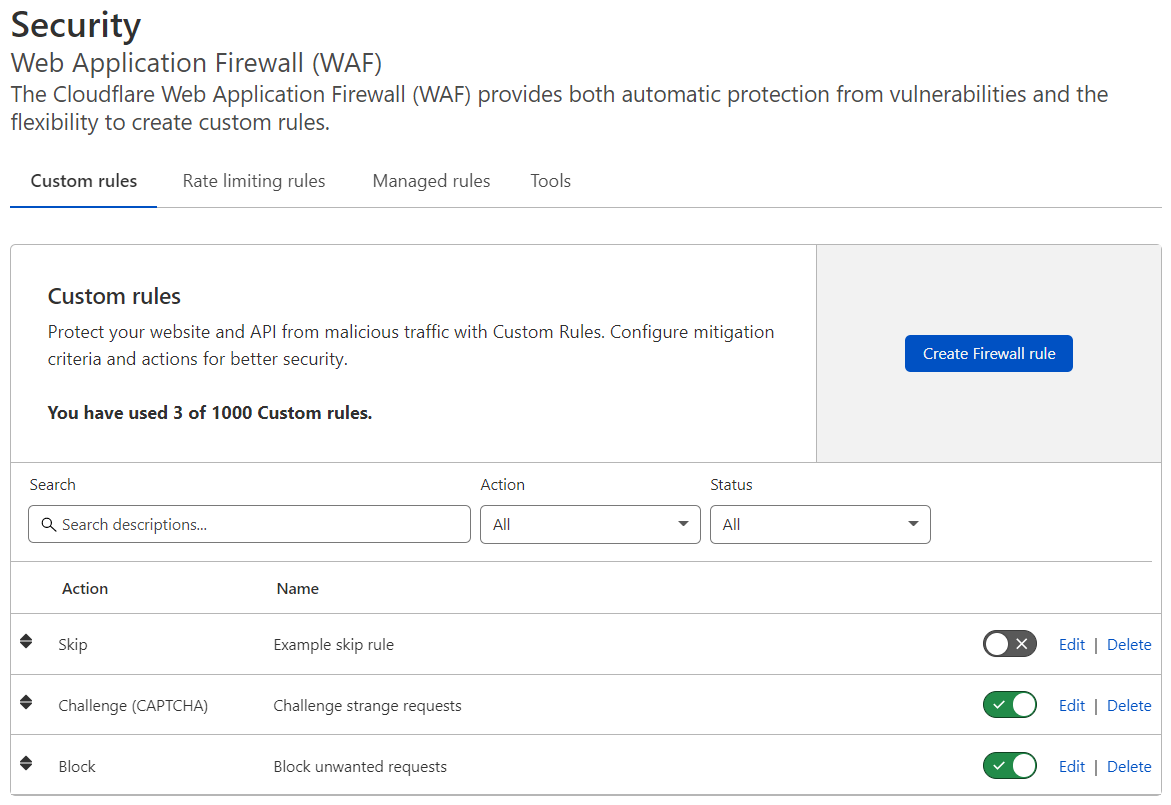
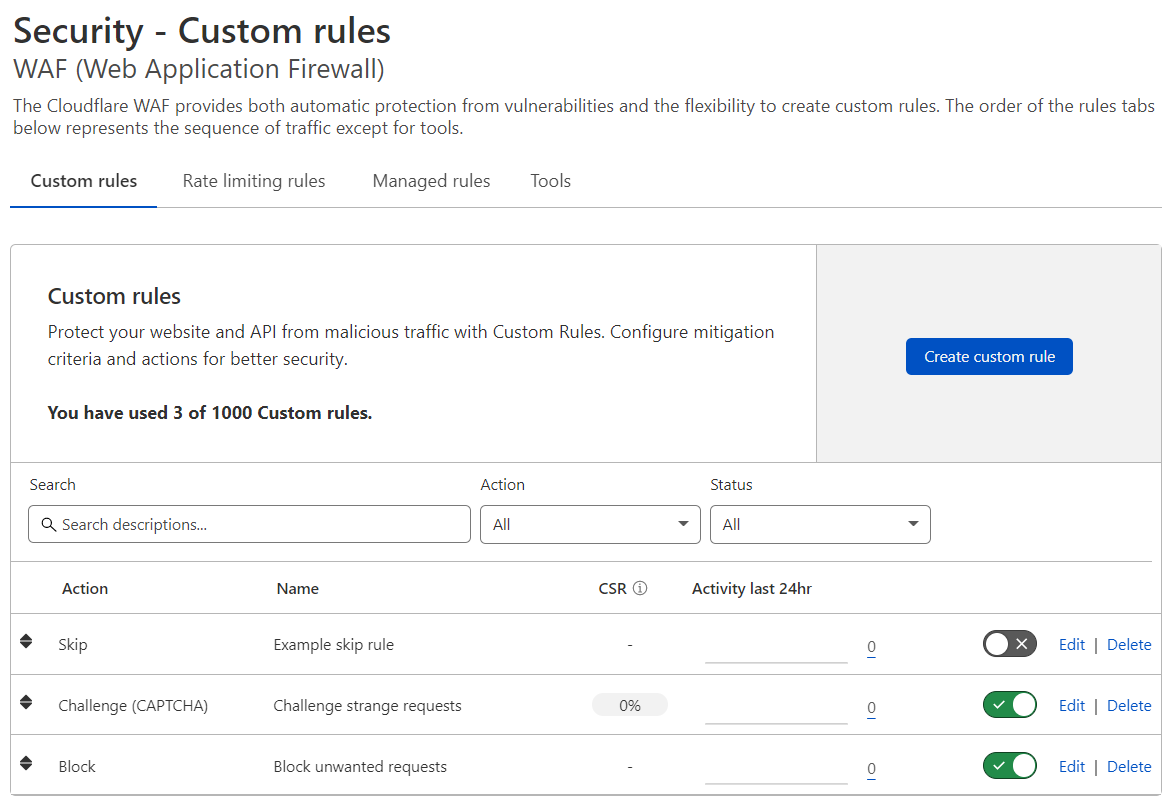
[WAF] Add CSR to custom rules and rate limiting rules (#6201)

diff --git a/content/bots/concepts/challenge-solve-rate.md b/content/bots/concepts/challenge-solve-rate.md
@@ -6,7 +6,11 @@ weight: 2
 
 # Challenge Solve Rate (CSR)
 
-The Challenge Solve Rate (CSR) is the percentage of issued challenges — Legacy CAPTCHA, JS Challenge, or Managed Challenge actions — that were solved. You can find the CSR of a rule by going to **Security** > **WAF** > **Firewall rules**.
+The Challenge Solve Rate (CSR) is the percentage of issued challenges — Legacy CAPTCHA, JS Challenge, or Managed Challenge actions — that were solved. You can find the CSR of a rule by going to its corresponding dashboard page:
+
+* For firewall rules, go to **Security** > **WAF** > **Firewall rules**.
+* For custom rules, go to **Security** > **WAF** > **Custom rules**.
+* For rate limiting rules, go to **Security** > **WAF** > **Rate limiting rules**.
 
 ```sql
 CSR = number of challenges solved / number of challenges issued

diff --git a/content/bots/get-started/bm-subscription.md b/content/bots/get-started/bm-subscription.md
@@ -28,7 +28,7 @@ Our Solutions Engineering team will work with you to begin setting up the produc
 - Review the following concepts:
 
   - [Bot score](/bots/concepts/bot-score/): Learn how Cloudflare scores bot requests.
-  - [Challenge Solve Rate (CSR)](/bots/concepts/challenge-solve-rate/): Learn how to evaluate the effectiveness of firewall rules.
+  - [Challenge Solve Rate (CSR)](/bots/concepts/challenge-solve-rate/): Learn how to evaluate the effectiveness of your rules.
   - [Bot tags](/bots/concepts/cloudflare-bot-tags/): Learn more about _why_ Cloudflare classified a request a certain way.
 
 ### Step 1 — Configure Bot Management

diff --git a/content/waf/custom-rules/skip/_index.md b/content/waf/custom-rules/skip/_index.md
@@ -19,7 +19,7 @@ For more information on the available options, refer to [Available skip options]
 
 2. Go to **Security** > **WAF** > **Custom rules**.
 
-3. [Create a custom rule](/waf/custom-rules/create-dashboard/) by selecting **Create firewall rule**, or edit an existing custom rule.
+3. [Create a custom rule](/waf/custom-rules/create-dashboard/) by selecting **Create custom rule**, or edit an existing custom rule.
 
 4. Define the rule name and the rule expression.
 

diff --git a/content/waf/custom-rules/create-dashboard.md b/content/waf/custom-rules/create-dashboard.md
@@ -26,9 +26,9 @@ To create a new custom rule:
 
 3. Navigate to **Security** > **WAF** > **Custom rules**.
 
-4. Select **Create firewall rule**.
+4. Select **Create custom rule**.
 
-5. In the page that displays, enter a descriptive name for the rule in **Rule name**.
+5. Enter a descriptive name for the rule in **Rule name**.
 
     ![Custom rule creation page in the Cloudflare dashboard](/waf/static/custom-rules/firewall-custom-rule-create.png)
 
